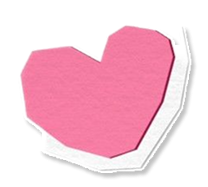
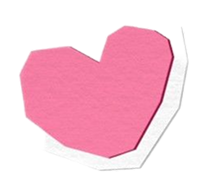
stickers styles changed

diff --git a/css/style.css b/css/style.css
@@ -236,22 +236,23 @@ section h2 {
     }
 
     img:nth-child(1) {
-        width: 22vw;
-        right: 60%;
-        top: 20%;
+        width: 12vw;
+        right: 18%;
+        top: 38%;
     }
 
     img:nth-child(2) {
         width: 8vw;
         right: 20%;
         top: 20%;
-        transform: rotate(5deg);
+        transform: rotate(28deg);
     }
 
     img:nth-child(3) {
         right: 58%;
         top: 19%;
         width: 6vw;
+        opacity: 0;
     }
 
     img:nth-child(4) {
@@ -262,10 +263,11 @@ section h2 {
     }
 
     img:nth-child(5) {
-        right: 20%;
-        top: 55%;
         width: 12vw;
+        right: 70%;
+        top: 50%;
     }
+
 
 }
 

diff --git a/index.html b/index.html
@@ -32,10 +32,7 @@
             </div>
 
             <div class="stickers">
-                <img alt="sticker" src="./images/0.png" style="
-        width: 22vw;
-        right: 60%;
-        top: 20%;">
+                <img alt="sticker" src="./images/0.jpg">
                 <img alt="sticker" src="./images/00.png"/>
                 <img alt="sticker" src="./images/000.png"/>
                 <img alt="sticker" src="./images/0000.png"/>
